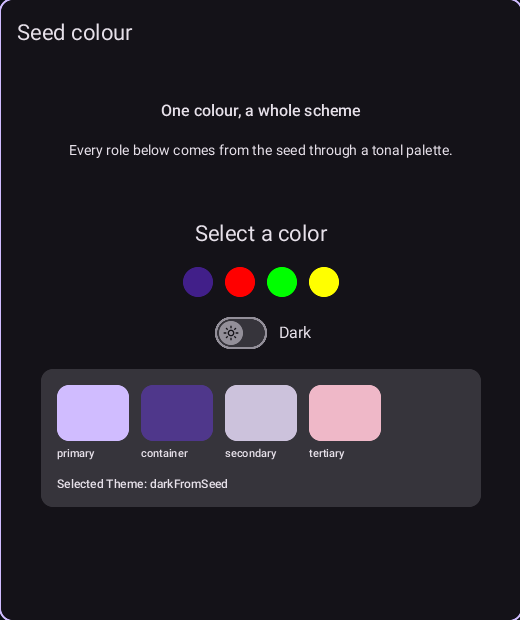
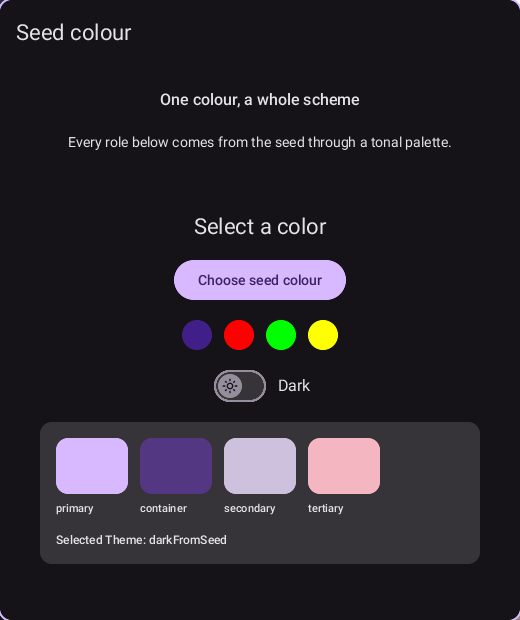
seed: choose the seed colour from a picker
A button opens a ColorPicker in a popover; OK applies the picked colour as the seed, Cancel closes it. The preset circles still set a seed through the same string handler. The screenshots are recaptured with the button, and the gallery's inputs page shows a search bar with both slots.

diff --git a/seed/main.go b/seed/main.go
@@ -8,6 +8,8 @@ package main
 import (
 	"fmt"
 	"os"
+	"strconv"
+	"strings"
 
 	"github.com/goi-gui/goi/ui"
 )
@@ -37,11 +39,33 @@ func main() {
 
 	defineTheme(win, seed)
 
+	hidePicker := func(w *ui.Window) {
+		if picker, err := w.ByID[*ui.ColorPicker]("seedPicker"); err == nil {
+			picker.SetVisible(false)
+		}
+	}
+
 	if err := win.Bind(func(w *ui.Window) error {
-		ui.SetHandler(w, "onSetSeedColor", func(color uint32) {
+		ui.SetHandler(w, "onSetSeedColor", func(hex string) {
+			color, ok := parseSeed(hex)
+			if !ok {
+				return
+			}
 			seed = color
 			defineTheme(w, seed)
+			hidePicker(w)
 		})
+
+		ui.SetHandler(w, "onOpenSeedPicker", func() {
+			picker, err := w.ByID[*ui.ColorPicker]("seedPicker")
+			if err != nil {
+				return
+			}
+			picker.Text.Set(fmt.Sprintf("#%06x", seed>>8))
+			picker.SetVisible(true)
+		})
+
+		ui.SetHandler(w, "onCloseSeedPicker", func() { hidePicker(w) })
 
 		ui.SetHandler(w, "onToggleScheme", func(isDark bool) {
 			if isDark {
@@ -60,4 +84,21 @@ func main() {
 		fmt.Fprintln(os.Stderr, err)
 		os.Exit(1)
 	}
+}
+
+// parseSeed reads the #rrggbb or #rrggbbaa string a ColorPicker reports, and
+// the shorthand preset values as #rrggbb.
+func parseSeed(hex string) (uint32, bool) {
+	h := strings.TrimPrefix(hex, "#")
+	if len(h) == 6 {
+		h += "ff"
+	}
+	if len(h) != 8 {
+		return 0, false
+	}
+	v, err := strconv.ParseUint(h, 16, 32)
+	if err != nil {
+		return 0, false
+	}
+	return uint32(v), true
 }

diff --git a/README.md b/README.md
@@ -162,7 +162,8 @@ window exists, which a `.goi` file selects with `theme: brand`.
 
 One colour, a whole scheme: `ui.NewThemeFromSeed` builds a light and a dark theme
 from the same seed, both defined by name, so the design picks one with
-`theme: lightFromSeed` or `theme: darkFromSeed`.
+`theme: lightFromSeed` or `theme: darkFromSeed`. A button opens the colour
+picker; OK applies the picked colour as the new seed.
 
 | Light | Dark |
 | --- | --- |
